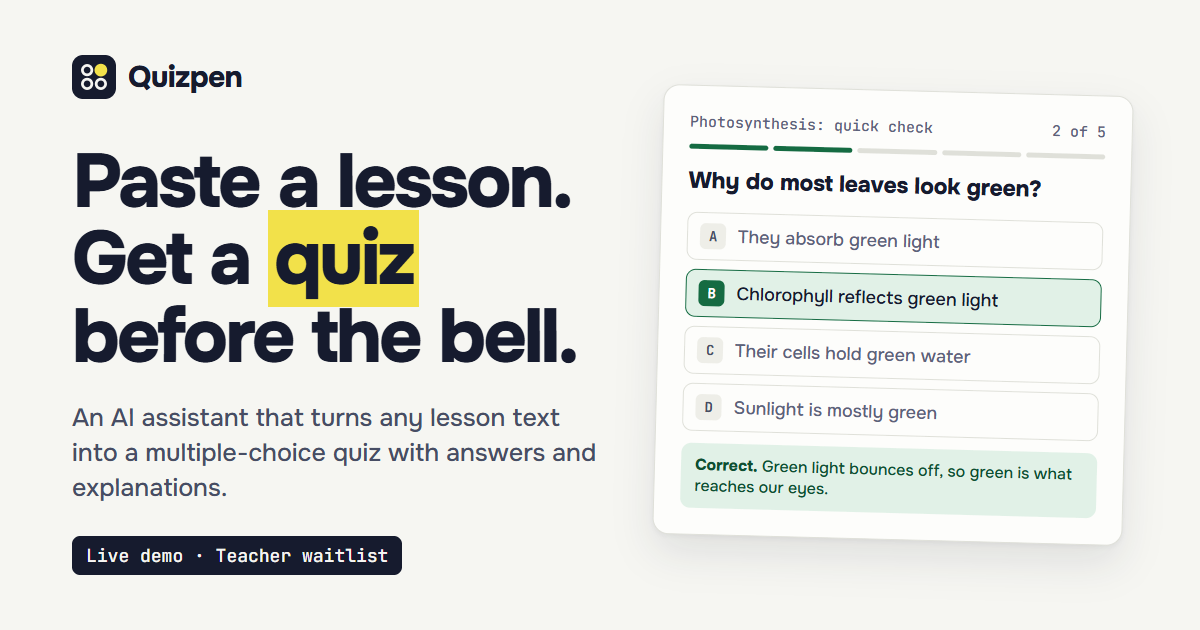
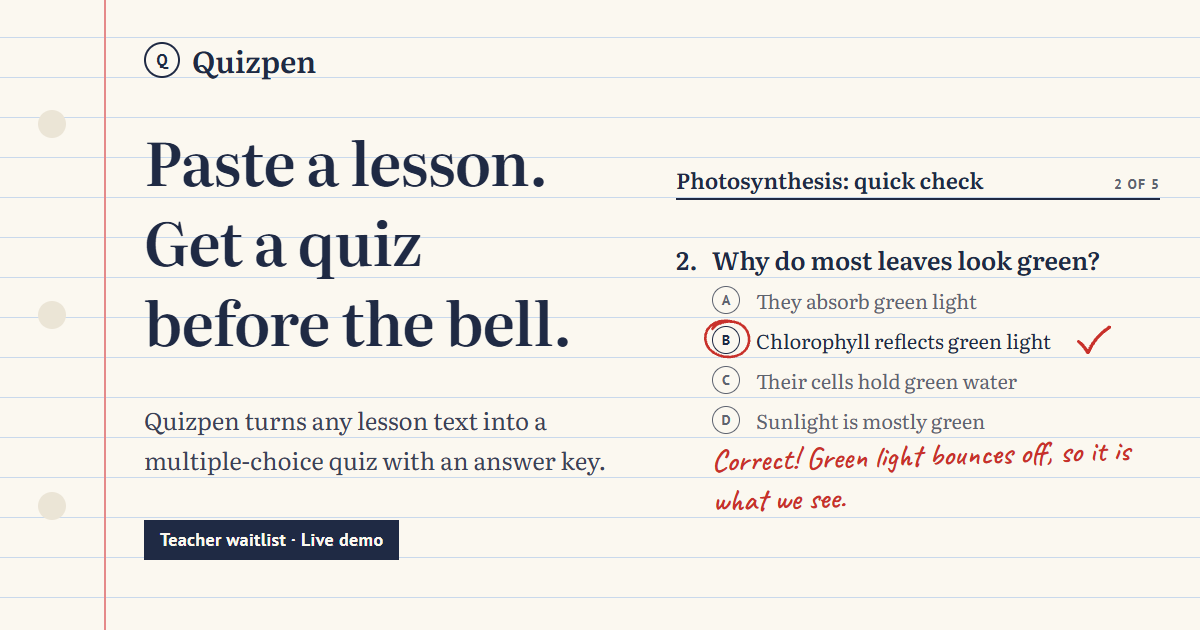
OG image on the worksheet; ui-check player paper; shots for the strict version; sw version 2026-11-21a

diff --git a/web/dev/og.html b/web/dev/og.html
@@ -3,51 +3,61 @@
 <head>
 <meta charset="utf-8">
 <title>Quizpen OG image template</title>
-<link rel="stylesheet" href="https://fonts.googleapis.com/css2?family=JetBrains+Mono:wght@500;700&family=Onest:wght@500;600;800&display=swap">
+<link rel="stylesheet" href="https://fonts.googleapis.com/css2?family=Caveat:wght@600&family=Literata:ital,opsz,wght@0,7..72,400;0,7..72,600;1,7..72,400&family=PT+Sans:wght@400;700&display=swap">
 <style>
-  /* Template for web/og.png (1200x630), rendered by web/dev/shoot.mjs og */
+  /* Template for web/og.png (1200x630), rendered by web/dev/shoot.mjs og. The landing's worksheet: paper ruled
+     every 40px, the red margin line with punch holes, the headline in Literata and one graded question with
+     the right letter circled and ticked in red pen. Every line box is 40px (or 80px), so text sits on the ruling. */
   * { box-sizing: border-box; margin: 0; }
-  body { width: 1200px; height: 630px; overflow: hidden; background: #F6F6F2; color: #161B2E; font-family: Onest, sans-serif; }
-  .wrap { display: grid; grid-template-columns: 1fr 470px; gap: 56px; align-items: center; height: 100%; padding: 0 72px; }
-  .brand { display: flex; align-items: center; gap: 12px; font-weight: 800; font-size: 30px; letter-spacing: -0.02em; }
-  .logo { width: 44px; height: 44px; }
-  h1 { margin-top: 44px; font-size: 76px; line-height: 1.02; letter-spacing: -0.04em; font-weight: 800; }
-  mark { background: #F2E14A; color: inherit; padding: 0 6px; }
-  p.sub { margin-top: 26px; font-size: 25px; color: #474D64; line-height: 1.4; max-width: 560px; }
-  .tag { margin-top: 30px; display: inline-block; font-family: "JetBrains Mono", monospace; font-size: 18px; background: #161B2E; color: #F6F6F2; padding: 8px 14px; border-radius: 8px; }
-  .card { background: #FDFDFB; border: 1.5px solid #DFE0D9; border-radius: 16px; padding: 26px; box-shadow: 0 2px 4px rgba(22,27,46,.05), 0 18px 40px rgba(22,27,46,.10); transform: rotate(1.5deg); }
-  .top { display: flex; justify-content: space-between; font-family: "JetBrains Mono", monospace; font-size: 15px; color: #5C627A; }
-  .bars { display: flex; gap: 5px; margin-top: 12px; }
-  .bars i { flex: 1; height: 5px; border-radius: 3px; background: #DFE0D9; }
-  .bars i.r { background: #156B42; }
-  .q { margin-top: 18px; font-size: 23px; font-weight: 800; letter-spacing: -0.01em; line-height: 1.25; }
-  ul { list-style: none; padding: 0; margin-top: 16px; display: grid; gap: 9px; }
-  li { display: flex; align-items: center; gap: 12px; border: 1.5px solid #DFE0D9; border-radius: 10px; padding: 10px 12px; font-size: 18px; font-weight: 500; color: #5C627A; }
-  li b { width: 26px; height: 26px; border-radius: 6px; background: #EEEEE8; display: grid; place-items: center; font-family: "JetBrains Mono", monospace; font-size: 14px; color: #474D64; }
-  li.ok { border-color: #156B42; background: #E1F1E7; color: #161B2E; }
-  li.ok b { background: #156B42; color: #fff; }
-  .fb { margin-top: 12px; background: #E1F1E7; color: #0F4F31; border-radius: 10px; padding: 11px 14px; font-size: 16px; line-height: 1.35; }
+  :root { --paper: #FBF8F0; --ink: #1F2A44; --ink-2: #3B4256; --ink-3: #5E6470; --pen: #C8312B; --rule: #C9D9EC; --margin: #E58A8A; --hole: #EBE5D6; }
+  body {
+    position: relative; width: 1200px; height: 630px; overflow: hidden;
+    background: var(--paper) repeating-linear-gradient(to bottom, transparent 0 39px, var(--rule) 39px 40px) 0 -2px;
+    color: var(--ink); font-family: "PT Sans", sans-serif;
+  }
+  body::before { content: ""; position: absolute; top: 0; bottom: 0; left: 104px; border-left: 2px solid var(--margin); }
+  .holes { position: absolute; left: 38px; top: 110px; bottom: 110px; display: flex; flex-direction: column; justify-content: space-between; }
+  .holes i { display: block; width: 28px; height: 28px; border-radius: 50%; background: var(--hole); }
+  .wrap { position: absolute; inset: 0; display: grid; grid-template-columns: 480px 484px; gap: 52px; padding: 40px 0 0 144px; }
+  .brand { display: flex; align-items: center; gap: 12px; height: 40px; font: 600 30px/1 Literata, serif; }
+  .brand-mark { display: grid; place-items: center; width: 36px; height: 36px; border: 2px solid var(--ink); border-radius: 50%; font: 700 17px/1 "PT Sans", sans-serif; }
+  h1 { margin-top: 40px; font: 600 60px/80px Literata, serif; letter-spacing: -0.015em; }
+  .sub { margin-top: 40px; font: 400 24px/40px Literata, serif; color: var(--ink-2); }
+  .tag { display: inline-flex; align-items: center; height: 40px; margin-top: 40px; padding: 0 16px; background: var(--ink); color: var(--paper); font: 700 18px/1 "PT Sans", sans-serif; letter-spacing: 0.02em; }
+  .sheet { padding-top: 120px; }
+  .head { display: flex; align-items: baseline; justify-content: space-between; height: 40px; border-bottom: 2px solid var(--ink); }
+  .title { font: 600 22px/40px Literata, serif; }
+  .of { font: 700 14px/40px "PT Sans", sans-serif; letter-spacing: 0.08em; text-transform: uppercase; color: var(--ink-3); }
+  .q { position: relative; margin-top: 40px; padding-left: 36px; font: 600 25px/40px Literata, serif; }
+  .q b { position: absolute; left: 0; font-weight: 600; }
+  ul { list-style: none; padding: 0 0 0 36px; }
+  li { position: relative; display: flex; align-items: center; gap: 16px; height: 40px; font: 400 20px/40px Literata, serif; color: var(--ink-3); white-space: nowrap; }
+  li .k { position: relative; display: grid; place-items: center; flex: none; width: 28px; height: 28px; border: 1.5px solid currentColor; border-radius: 50%; font: 700 14px/1 "PT Sans", sans-serif; }
+  li.ok { color: var(--ink); }
+  .loop { position: absolute; left: -13px; top: -11px; width: 54px; height: 47px; overflow: visible; }
+  .tick { width: 38px; height: 31px; margin-left: 8px; overflow: visible; }
+  .note { margin-top: 2px; padding-left: 36px; font: 600 31px/40px Caveat, cursive; color: var(--pen); rotate: -1.5deg; transform-origin: left center; }
 </style>
 </head>
 <body>
+<div class="holes" aria-hidden="true"><i></i><i></i><i></i></div>
 <div class="wrap">
   <div>
-    <div class="brand"><img class="logo" src="../favicon.svg" alt="">Quizpen</div>
-    <h1>Paste a lesson.<br>Get a <mark>quiz</mark><br>before the bell.</h1>
-    <p class="sub">An AI assistant that turns any lesson text into a multiple-choice quiz with answers and explanations.</p>
-    <span class="tag">Live demo · Teacher waitlist</span>
+    <div class="brand"><span class="brand-mark">Q</span>Quizpen</div>
+    <h1>Paste a lesson.<br>Get a quiz<br>before the bell.</h1>
+    <p class="sub">Quizpen turns any lesson text into a multiple-choice quiz with an answer key.</p>
+    <span class="tag">Teacher waitlist &middot; Live demo</span>
   </div>
-  <div class="card">
-    <div class="top"><span>Photosynthesis: quick check</span><span>2 of 5</span></div>
-    <div class="bars"><i class="r"></i><i class="r"></i><i></i><i></i><i></i></div>
-    <p class="q">Why do most leaves look green?</p>
+  <div class="sheet">
+    <div class="head"><span class="title">Photosynthesis: quick check</span><span class="of">2 of 5</span></div>
+    <p class="q"><b>2.</b>Why do most leaves look green?</p>
     <ul>
-      <li><b>A</b>They absorb green light</li>
-      <li class="ok"><b>B</b>Chlorophyll reflects green light</li>
-      <li><b>C</b>Their cells hold green water</li>
-      <li><b>D</b>Sunlight is mostly green</li>
+      <li><span class="k">A</span>They absorb green light</li>
+      <li class="ok"><span class="k">B<svg class="loop" viewBox="0 0 46 40" fill="none" stroke="#C8312B" stroke-width="2.2" stroke-linecap="round" stroke-linejoin="round"><path d="M27 4.5 C14 2 3.5 9 4.5 20 C5.5 31 19 37.5 31 34 C41 31 44.5 21 40 12.5 C36.5 6 28 3 19 5.5 C15 6.6 12 8.5 10.5 11"/></svg></span>Chlorophyll reflects green light<svg class="tick" viewBox="0 0 34 28" fill="none" stroke="#C8312B" stroke-width="3" stroke-linecap="round" stroke-linejoin="round"><path d="M3 15 C6 17 9 20.5 11.5 25 C15.5 16 21.5 8 31 2"/></svg></li>
+      <li><span class="k">C</span>Their cells hold green water</li>
+      <li><span class="k">D</span>Sunlight is mostly green</li>
     </ul>
-    <p class="fb"><strong>Correct.</strong> Green light bounces off, so green is what reaches our eyes.</p>
+    <p class="note">Correct! Green light bounces off, so it is what we see.</p>
   </div>
 </div>
 </body>

diff --git a/web/sw.js b/web/sw.js
@@ -9,7 +9,7 @@
 'use strict';
 
 // Bump on every deploy so returning visitors get a fresh, consistent shell.
-var VERSION = '2026-11-20c';
+var VERSION = '2026-11-21a';
 var CACHE = 'qp-shell-' + VERSION;
 var NAV_TIMEOUT_MS = 3000;
 var SHELL = [
